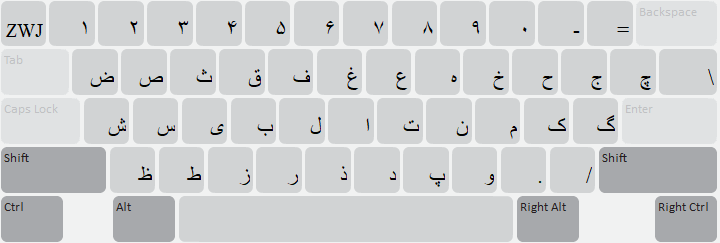
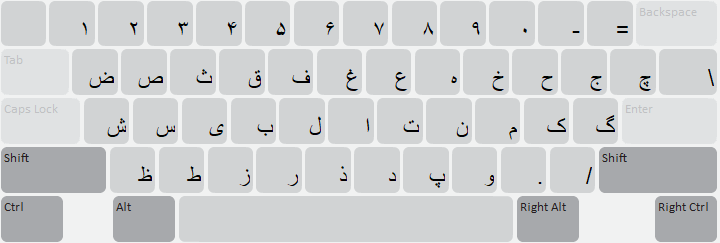
[afghan_turkmen] update to keyboard

diff --git a/release/a/afghan_turkmen/HISTORY.md b/release/a/afghan_turkmen/HISTORY.md
@@ -1,6 +1,15 @@
 Afghan Turkmen Change History
 ====================
 
+3.0 (2025-05-01)
+----------------
+* Added NNBSP to Shift+Space (in place of ZWNJ)
+* Removed extra ZWJ from ` and Shift+`
+* Removed 3 T_xxxx_yyyy entries from .kmn file and used U_xxxx_yyyy in touch layout
+* Put NNBSP on key to right of space bar on touch layout and moved ZWNJ to longpress
+* longpress key (on heh key) produces heh+NNBSP (rather than heh+ZWNJ)
+* update .png images used by welcome.htm
+
 2.0 (2024-03-26)
 ----------------
 * Removed U+064D (ARABIC KASRATAN)

diff --git a/release/a/afghan_turkmen/LICENSE.md b/release/a/afghan_turkmen/LICENSE.md
@@ -1,6 +1,6 @@
 The MIT License (MIT)
 
-Copyright © 2021-2024 Samar
+Copyright © 2021-2025 Samar
 
 Permission is hereby granted, free of charge, to any person obtaining a copy
 of this software and associated documentation files (the "Software"), to deal
